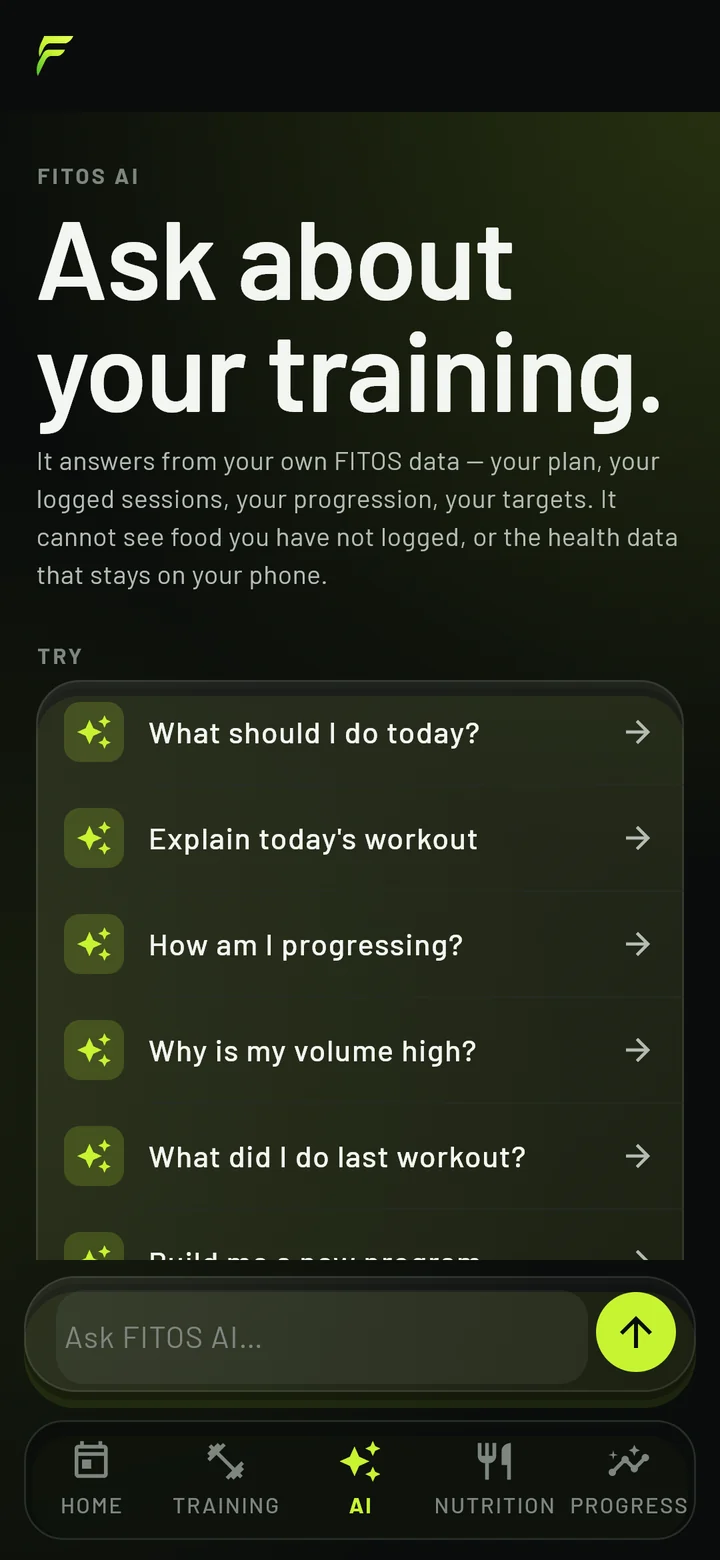
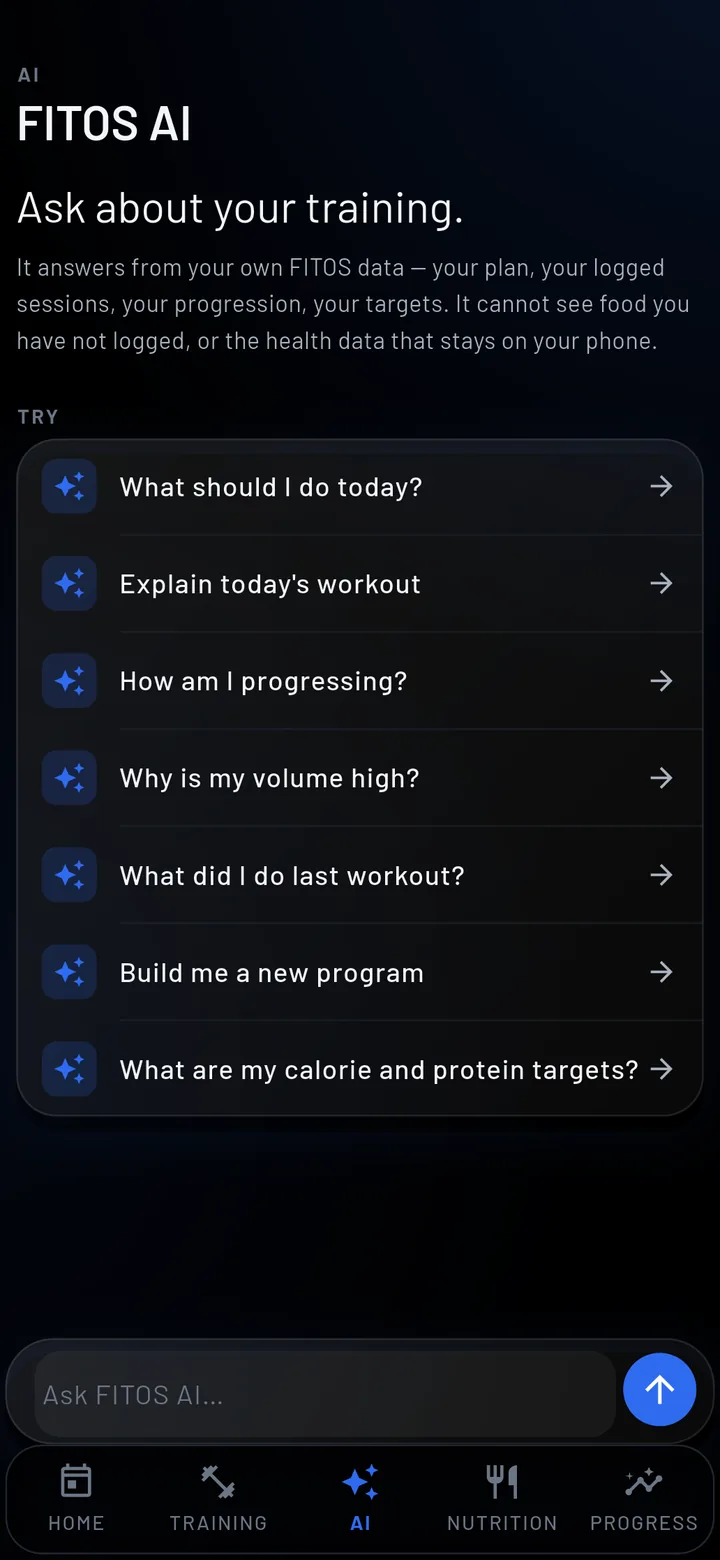
The screenshots retaken in the Cobalt theme (5.3): home, training, nutrition, progress, FITOS AI and profile

diff --git a/src/app/page.tsx b/src/app/page.tsx
@@ -111,7 +111,7 @@ export default function Home() {
         <div className="mx-auto max-w-6xl px-4 sm:px-6">
           <span className="eyebrow">Screens</span>
           <h2 className="mt-3 text-4xl font-semibold tracking-tight sm:text-5xl">See it before you install it.</h2>
-          <p className="mt-4 max-w-2xl text-white/70">Real screens from the app, in the FITOS Dark theme.</p>
+          <p className="mt-4 max-w-2xl text-white/70">Real screens from the app, in the Cobalt theme.</p>
         </div>
         <div className="mx-auto mt-12 flex max-w-6xl snap-x snap-mandatory gap-6 overflow-x-auto px-4 pb-6 sm:px-6">
           {[
